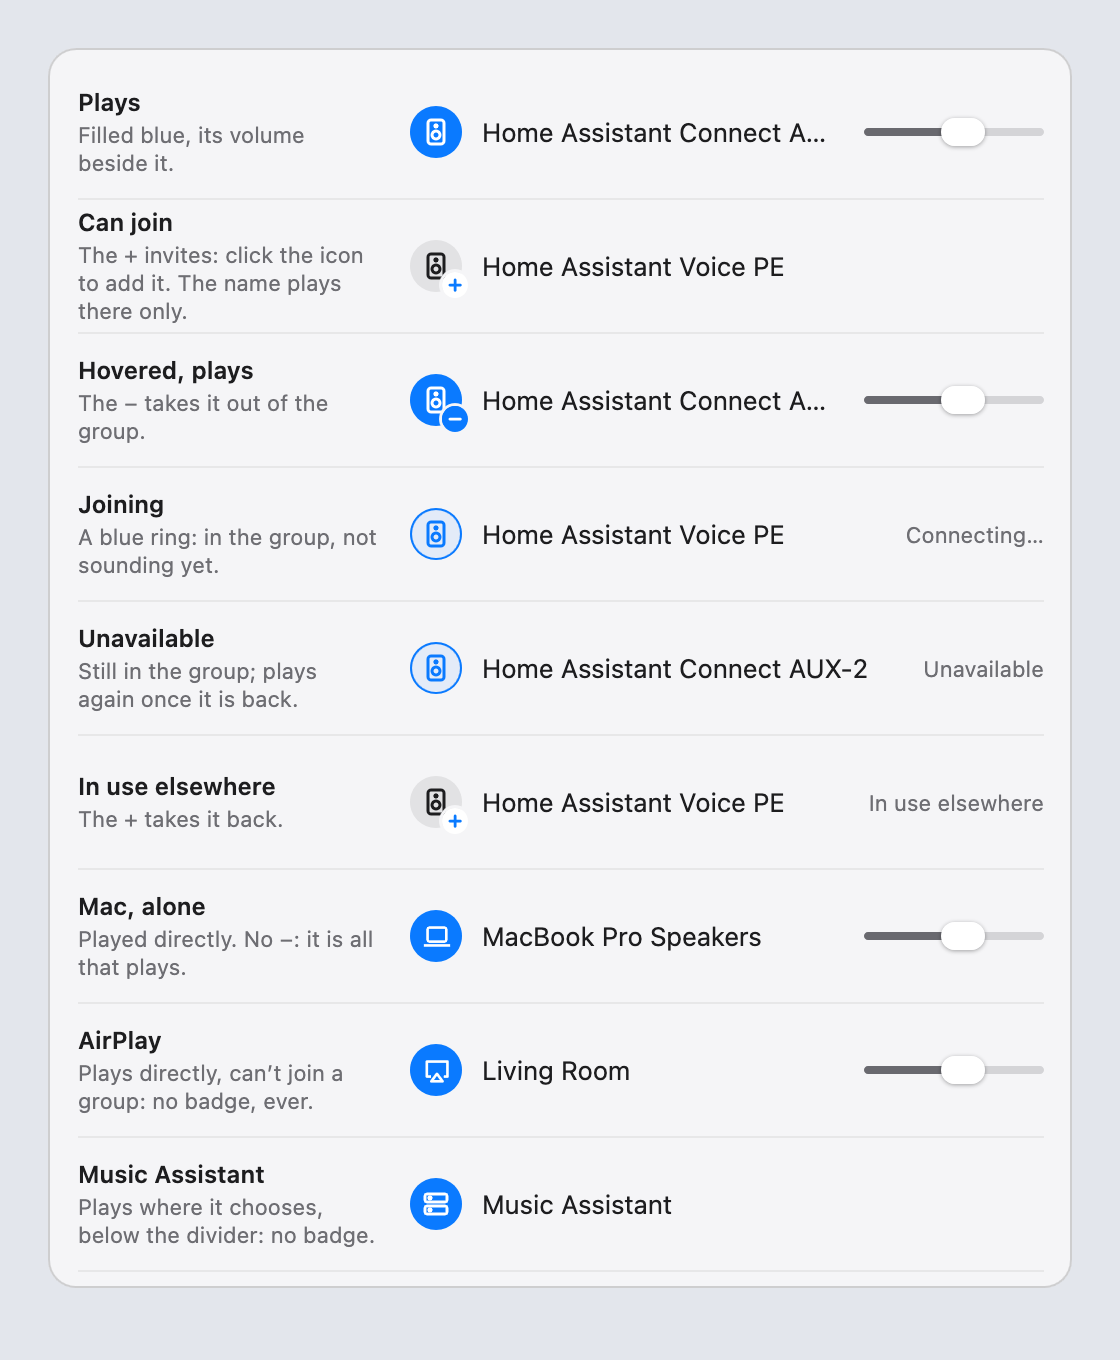
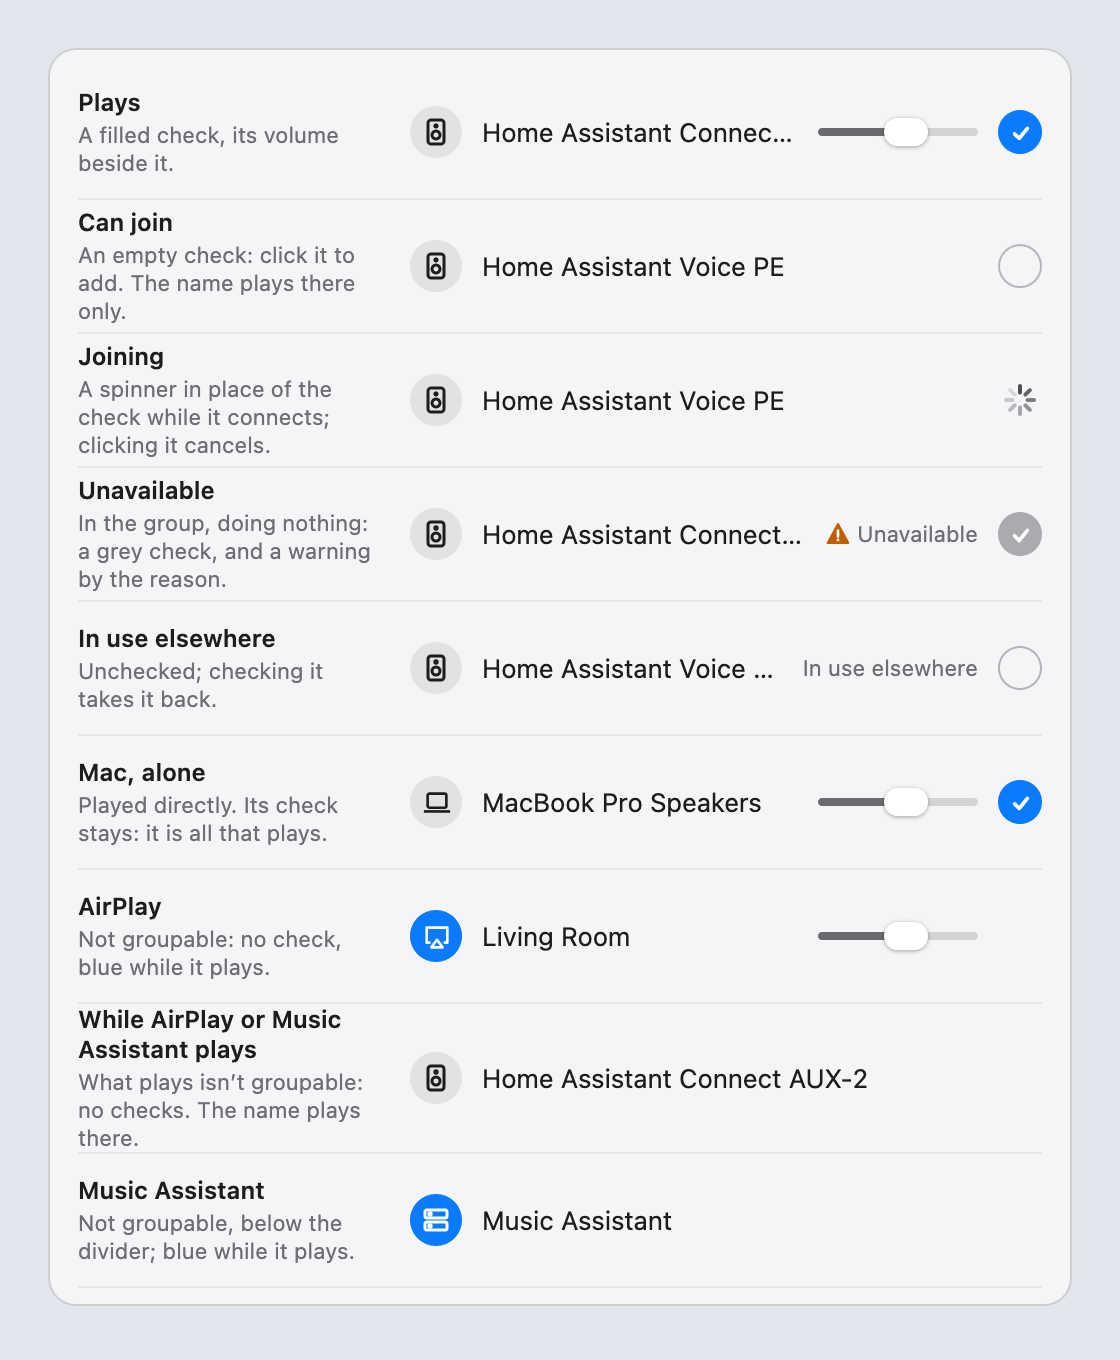
Version 0.9.0
Grouping the AirPlay picker way: a round check per speaker adds it to
what plays or takes it out, the name plays there only, and the Mac's own
output takes over when nothing else is left. A grey check with a warning
for a speaker that's unavailable, a spinner while one connects; a
server and an AirPlay output can't be grouped with. The rules are
SpeakerMenu, one test each. The README shows the new menu and every row
state. The driver doesn't change (0.3.1), so updating needs no password.
A pre-release, while it's tested with more speakers.

Tested: a signed Release build of 0.9.0 (build 15, driver 0.3.1) builds,
verifies and runs; 98 package tests; by hand with fake speakers, the
AUX-2, AirPods, AirPlay and Music Assistant.

diff --git a/README.md b/README.md
@@ -12,12 +12,12 @@ bit-perfect playback is finally possible on your Mac.
 macOS Audio for Sendspin adds an output device named **Sendspin**, plus a menu bar app to
 choose speakers and control their volume:
 
-<img src="docs/menu.png" width="464" alt="The speaker icon in the menu bar with its menu open: Sendspin with an empty dot, as the Mac plays directly; the MacBook Pro Speakers playing, with a blue icon and a volume slider; a Home Assistant Connect AUX-2 with a + on its icon, to add it; then, below a divider, Music Assistant.">
+<img src="docs/menu.png" width="464" alt="The speaker icon in the menu bar with its menu open: Sendspin with a blue dot, in use. The MacBook Pro Speakers play, with a volume slider and a blue check; Bedroom is in the group but unavailable, with a grey check and a warning; Living Room has an empty check, to add it. Below a divider, Music Assistant, unavailable, with a warning.">
 
 As in Apple's AirPlay picker, the round check beside a speaker adds it to what plays or takes it
 out, and clicking a name plays there only.
 
-<img src="docs/row-states.png" width="464" alt="Every state of a speaker in the menu. Plays: a blue icon and a volume slider. Can join: a grey icon with a +. Hovered while it plays: a blue icon with a −. Joining: a blue ring, Connecting…. Unavailable: a blue ring, still in the group. In use elsewhere: a grey icon with a +, which takes it back. The Mac alone: played directly, no −. AirPlay: plays directly, can't join a group, no badge. Music Assistant: plays where it chooses, below the divider, no badge.">
+<img src="docs/row-states.png" width="464" alt="Every state of a speaker in the menu. Plays: a filled blue check and a volume slider. Can join: an empty check; the name plays there only. Joining: a spinner in place of the check, which cancels it. Unavailable: a grey check and a warning by the status. In use elsewhere: an empty check, which takes it back. The Mac alone: played directly, its check stays. AirPlay: not groupable, no check, a blue icon while it plays. While AirPlay or Music Assistant plays: no checks; a name plays there. Music Assistant: not groupable, below the divider, a blue icon while it plays.">
 
 > Sendspin is a protocol of the Open Home Foundation;
 > this project is not affiliated with or endorsed by it.
